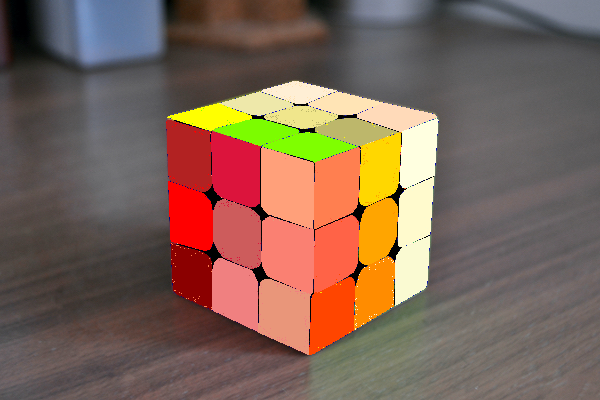
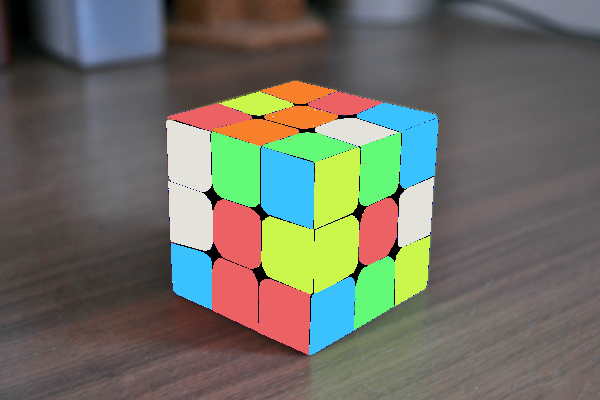
Add customizable cmd line arguments for piece colors

Changed region(s): [[0.27, 0.18, 0.75, 0.9]]

diff --git a/src/main.rs b/src/main.rs
@@ -1,65 +1,92 @@
-//! An example of generating julia fractals.
 extern crate image;
 
-// use std::fs::OpenOptions;
-// use std::io::prelude::*;
 
 fn to_replace(looking_for: [i32; 3], actual: [i32; 3]) -> bool {
-    let mut to_replace = true;
-
     for index in 0..3 {
         let looking_for_val = looking_for[index];
         let actual_val = actual[index];
-
+        
         let difference = looking_for_val - actual_val;
         let difference_abs = difference.abs();
-
-        if difference_abs > 4 {
-            to_replace = false;
+        
+        if difference_abs > 3 {
+            return false;
         }
     }
-
-    return to_replace;
+    
+    return true;
 }
 
 fn main() {
+    use std::env;
     use image::GenericImageView;
 
-    let replace_values: [[[u8; 3]; 2]; 27] = [
-        [[255, 160, 122], [0, 0, 73]],
-        [[250, 128, 114], [0, 0, 80]],
-        [[233, 150, 122], [0, 0, 87]],
-        [[240, 128, 128], [0, 0, 94]],
-        [[205, 92, 92], [0, 0, 101]],
-        [[220, 20, 60], [0, 0, 108]],
-        [[178, 34, 34], [0, 0, 115]],
-        [[255, 0, 0], [0, 0, 122]],
-        [[139, 0, 0], [0, 0, 129]],
-        [[255, 127, 80], [0, 0, 136]],
-        [[255, 99, 71], [0, 0, 143]],
-        [[255, 69, 0], [0, 0, 150]],
-        [[255, 215, 0], [0, 0, 157]],
-        [[255, 165, 0], [0, 0, 164]],
-        [[255, 140, 0], [0, 0, 171]],
-        [[255, 255, 224], [0, 0, 178]],
-        [[255, 250, 205], [0, 0, 185]],
-        [[250, 250, 210], [0, 0, 192]],
-        [[255, 239, 213], [0, 0, 199]],
-        [[255, 228, 181], [0, 0, 206]],
-        [[255, 218, 185], [0, 0, 213]],
-        [[238, 232, 170], [0, 0, 220]],
-        [[240, 230, 140], [0, 0, 227]],
-        [[189, 183, 107], [0, 0, 234]],
-        [[255, 255, 0], [0, 0, 241]],
-        [[124, 252, 0], [0, 0, 248]],
-        [[127, 255, 0], [0, 0, 255]],
+    let green: [u8; 3] = [99, 250, 119];
+    let orange: [u8; 3] = [249, 128, 42];
+    let blue: [u8; 3] = [58, 194, 254];
+    let red: [u8; 3] = [236, 97, 100];
+    let white: [u8; 3] = [227, 227, 219];
+    let yellow: [u8; 3] = [203, 247, 76];
+
+    let none: [u8; 3] = [0, 0, 0];
+
+    let mut replace_values: [[[u8; 3]; 2]; 27] = [
+        [none, [0, 0, 115]],
+        [none, [0, 0, 108]],
+        [none, [0, 0, 73]],
+        [none, [0, 0, 122]],
+        [none, [0, 0, 101]],
+        [none, [0, 0, 80]],
+        [none, [0, 0, 129]],
+        [none, [0, 0, 94]],
+        [none, [0, 0, 87]],
+
+        [none, [0, 0, 136]],
+        [none, [0, 0, 157]],
+        [none, [0, 0, 178]],
+        [none, [0, 0, 143]],
+        [none, [0, 0, 164]],
+        [none, [0, 0, 185]],
+        [none, [0, 0, 150]],
+        [none, [0, 0, 171]],
+        [none, [0, 0, 192]],
+        
+        [none, [0, 0, 199]],
+        [none, [0, 0, 206]],
+        [none, [0, 0, 213]],
+        [none, [0, 0, 220]],
+        [none, [0, 0, 227]],
+        [none, [0, 0, 234]],
+        [none, [0, 0, 241]],
+        [none, [0, 0, 248]],
+        [none, [0, 0, 255]],
     ];
 
-    // let mut file = OpenOptions::new()
-    //     .write(true)
-    //     .append(true)
-    //     .open("output.txt")
-    //     .unwrap();
+    // update replace args to match cmd args
+    let cmd_args: Vec<String> = env::args().collect();
+    let mut replace_color_ind = 0;
+    for color in cmd_args.iter() {
+        
+        if (color == "green") {
+            replace_values[replace_color_ind][0] = green;
+            replace_color_ind += 1;
+        } else if (color == "orange") {
+            replace_values[replace_color_ind][0] = orange;
+            replace_color_ind += 1;
+        } else if (color == "blue") {
+            replace_values[replace_color_ind][0] = blue;
+            replace_color_ind += 1;
+        } else if (color == "red") {
+            replace_values[replace_color_ind][0] = red;
+            replace_color_ind += 1;
+        } else if (color == "white") {
+            replace_values[replace_color_ind][0] = white;
+            replace_color_ind += 1;
+        } else if (color == "yellow") {
+            replace_values[replace_color_ind][0] = yellow;
+            replace_color_ind += 1;
+        }
+    }
 
     let source_img_path = "img/cube_sourceimage.jpg";
 
@@ -68,7 +95,6 @@ fn main() {
     let img_width = img.dimensions().0;
     let img_height = img.dimensions().1;
 
-    // create new image buffer with dimensions
     let mut new_img_buffer = image::ImageBuffer::new(img_width, img_height);
 
     for pixel in img.pixels() {
@@ -92,12 +118,7 @@ fn main() {
         }
 
         let new_img_pixel = new_img_buffer.get_pixel_mut(x, y);
-
         *new_img_pixel = image::Rgb(new_pixel_value);
-
-        // if let Err(e) = writeln!(file, "{:?}" , (p)) {
-        //     eprintln!("Couldn't write to file: {}", e);
-        // }
     }
 
     // save image
